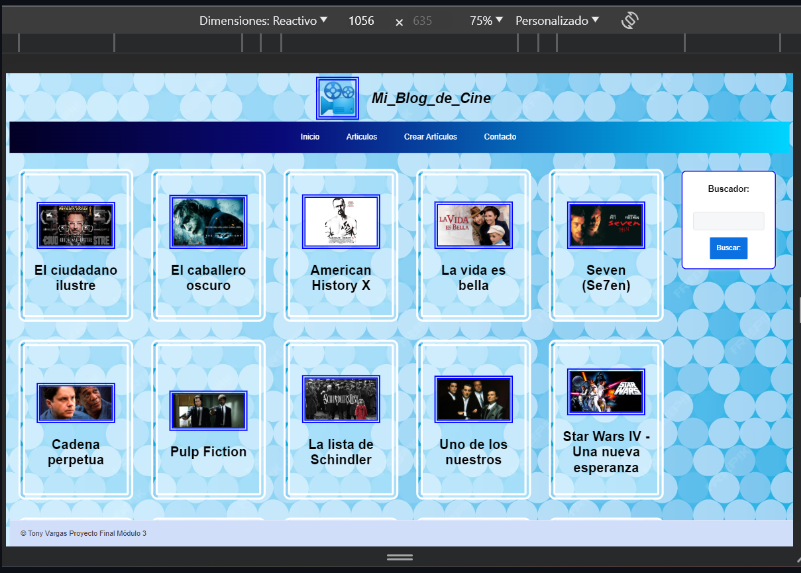
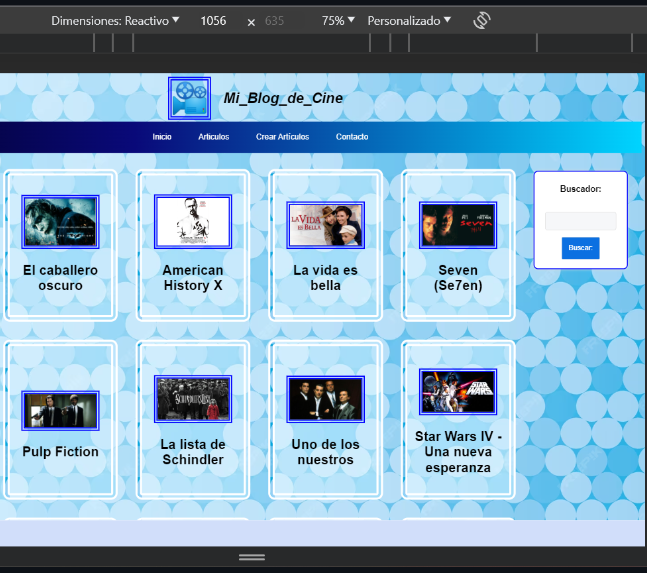
Add files via upload

diff --git a/src/components/ListadoTrabajos.jsx b/src/components/ListadoTrabajos.jsx
@@ -14,9 +14,11 @@ export const ListadoTrabajos = ({limite}) => {
               <img src={"/img/"+trabajo.id+".png"}/>
 
             </div>
-            <span>{trabajo.categorias}</span>
-            <h2><Link to={trabajo.url} target="blank">{trabajo.nombre}</Link></h2>
-            <h3>{trabajo.tecnologias}</h3>
+            <div className="datos">
+              <span>{trabajo.categorias}</span>
+              <h2><Link to={trabajo.url} target="blank">{trabajo.nombre}</Link></h2>
+              <h3>{trabajo.tecnologias}</h3>
+            </div>
           </article>
         );
       })}

diff --git a/src/index.css b/src/index.css
@@ -359,7 +359,7 @@ input[type="submit"]:hover {
 }
 .work-item .mask {
   width: 100%;
-  height: 300px;
+  height: fit-content;
   overflow: hidden;
   border: 1px solid black;
   box-shadow: 0px 5px 14px gray;
@@ -390,6 +390,11 @@ input[type="submit"]:hover {
 }
 .work-item a:hover {
   color: lightpink;
+}
+.datos{
+  display: flex;
+  flex-direction: column;
+  align-items: center;
 }
 @media (max-width: 1000px) {
   :root{
